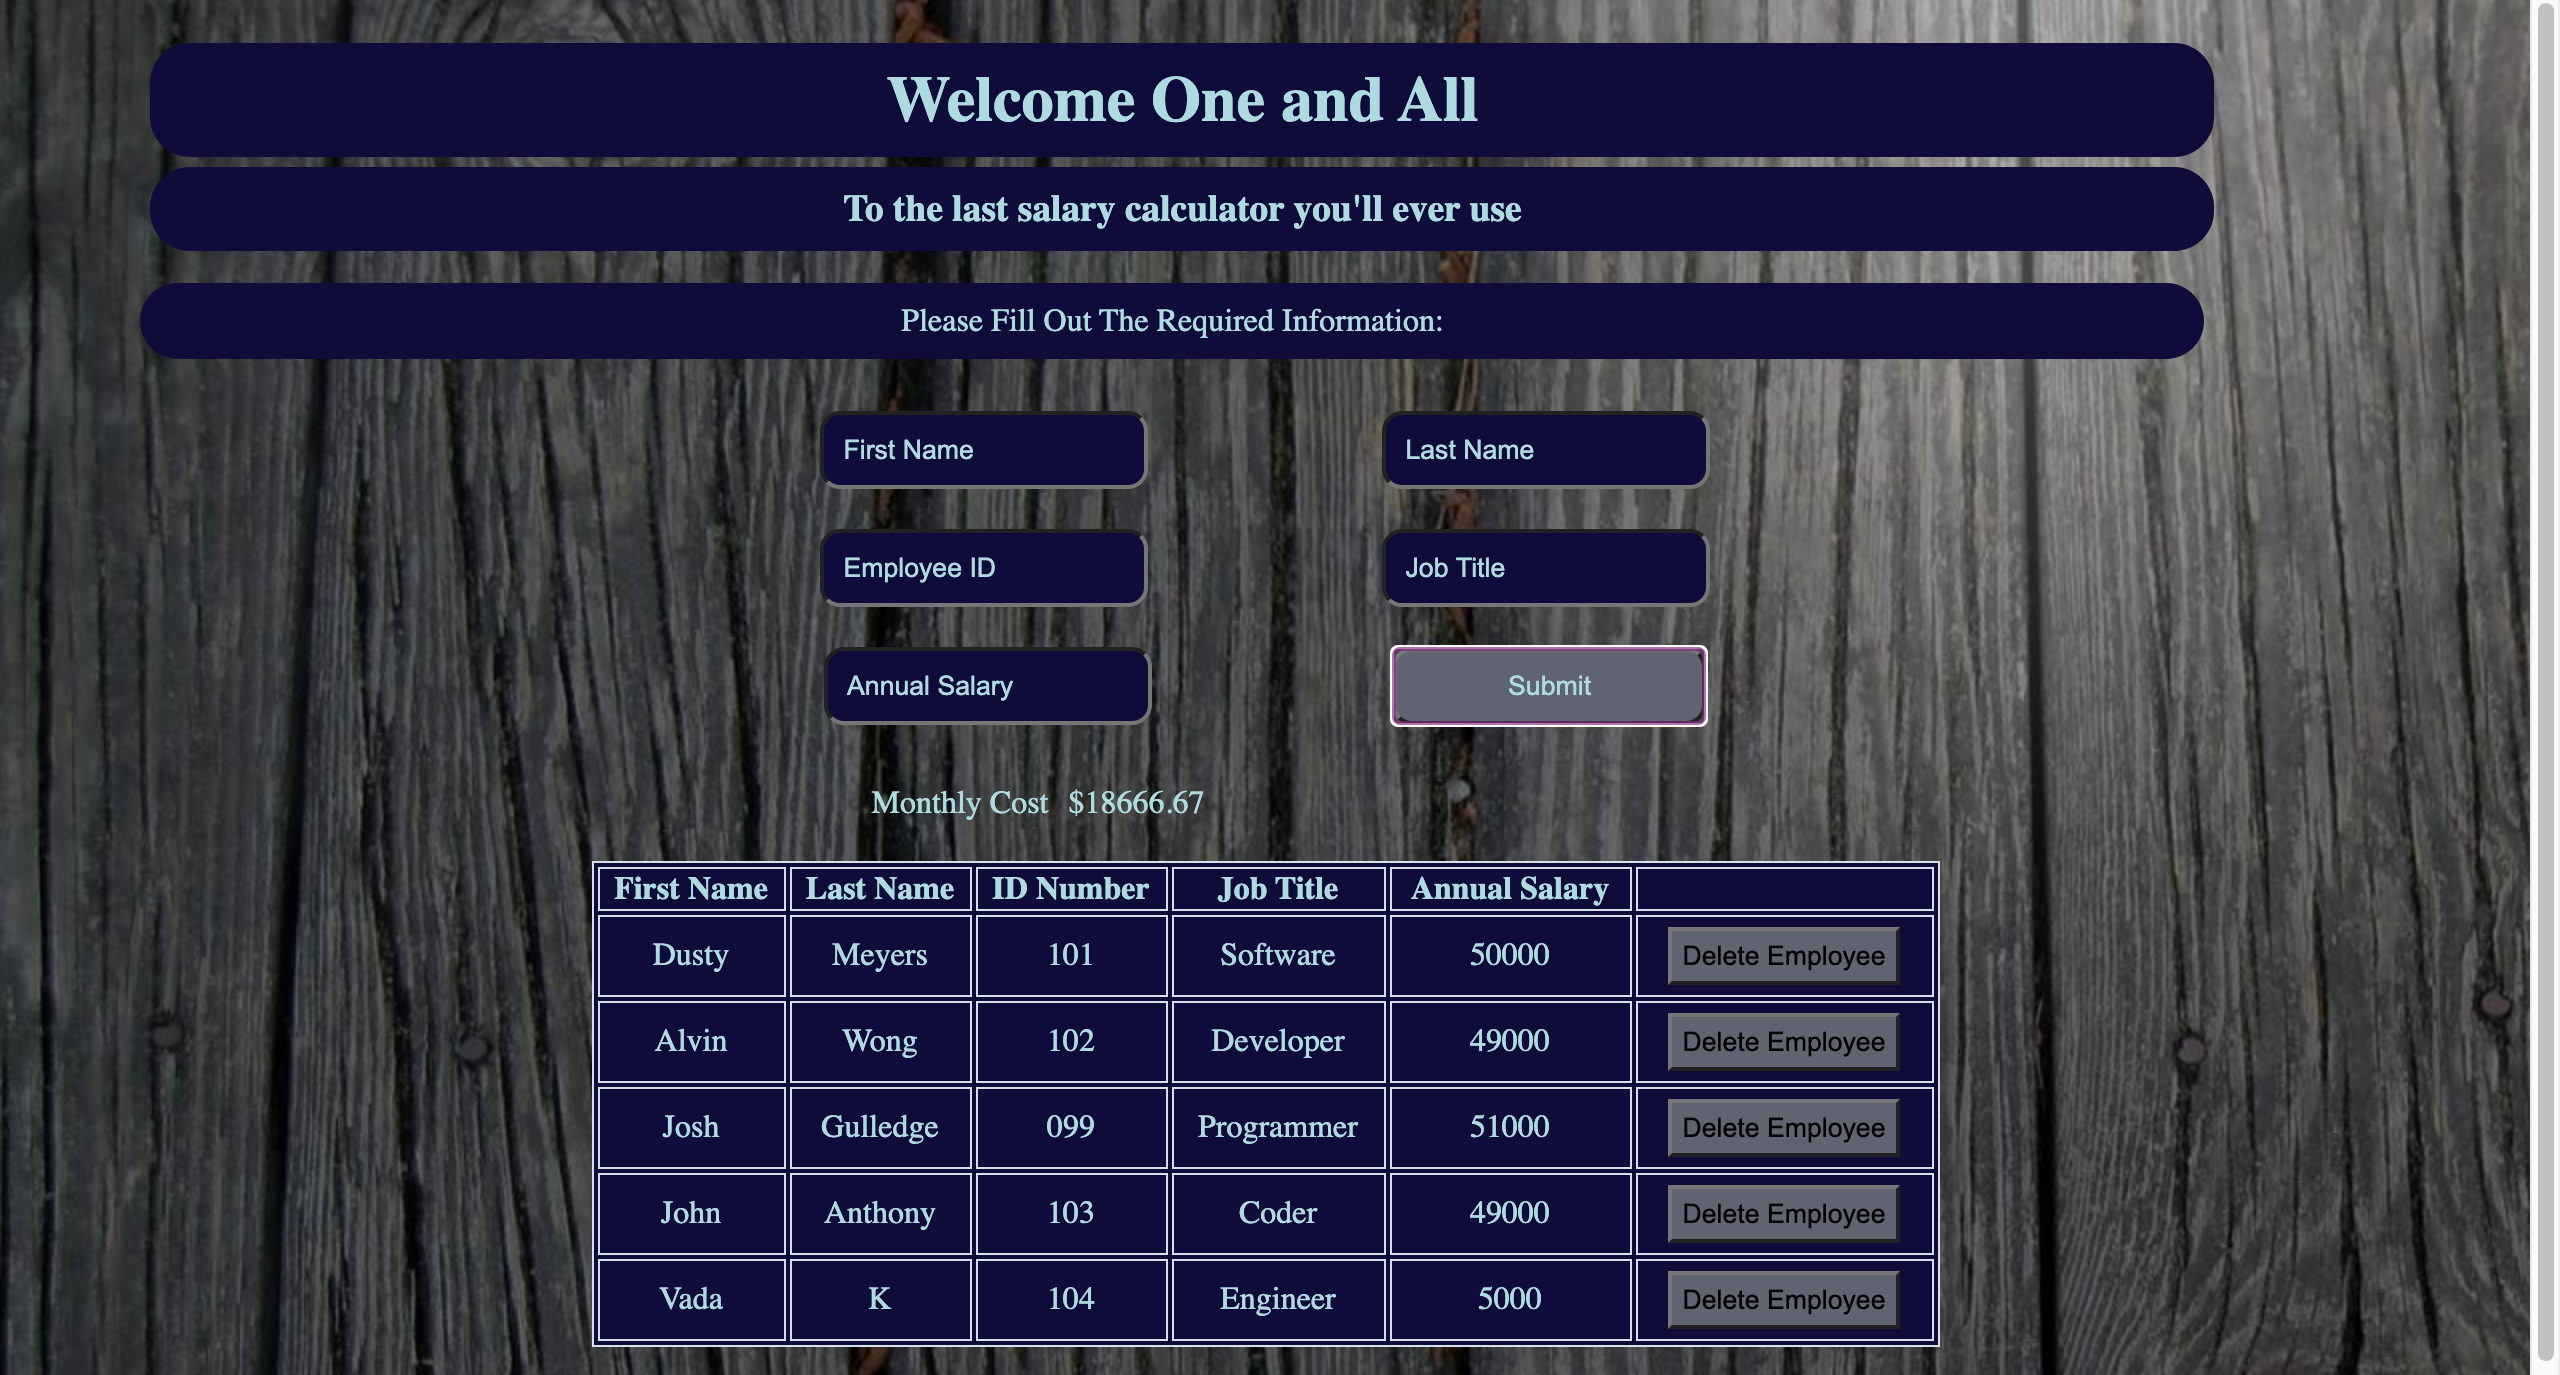
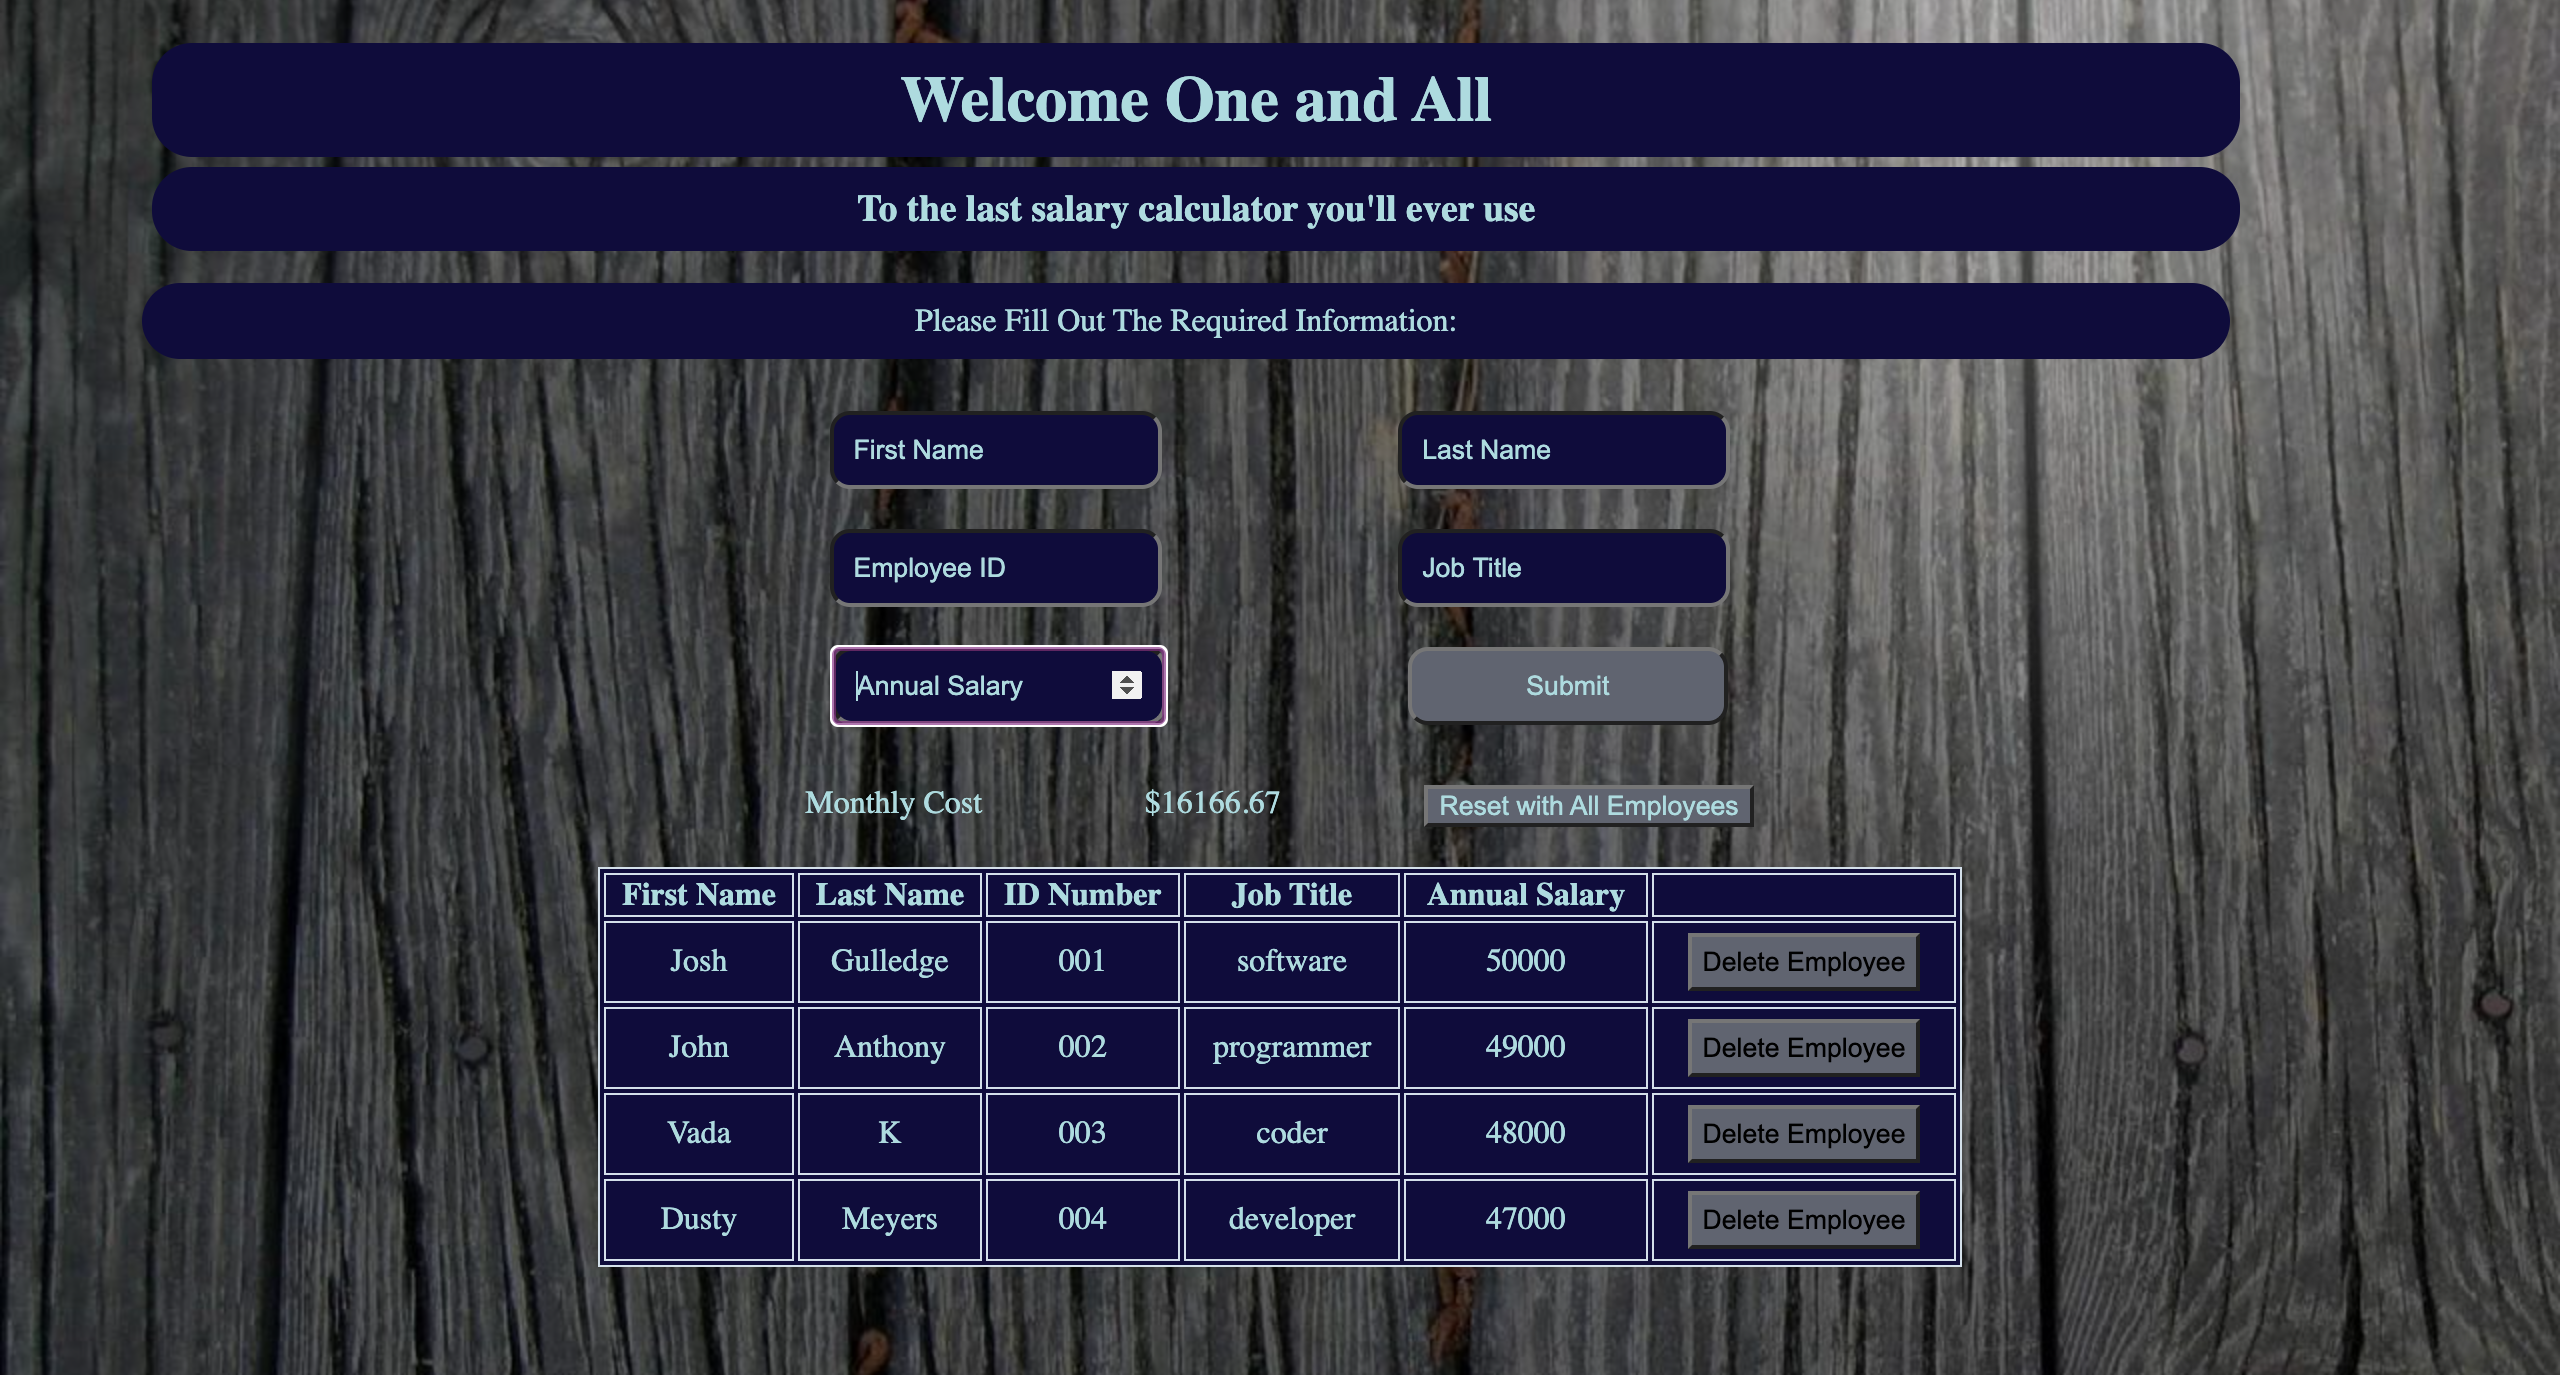
now im done

diff --git a/README.md b/README.md
@@ -8,6 +8,8 @@ This project takes in an organizations employee list, and with that it tracks th
 - Have employees listed
 - Delete employee information
 - Get a monthly cost of all employees
+- makes sure there is no reuse of employee ID
+- remove employees to see how it effects the monthly cost without deleting them
 
 ### ScreenShot of Page
 
